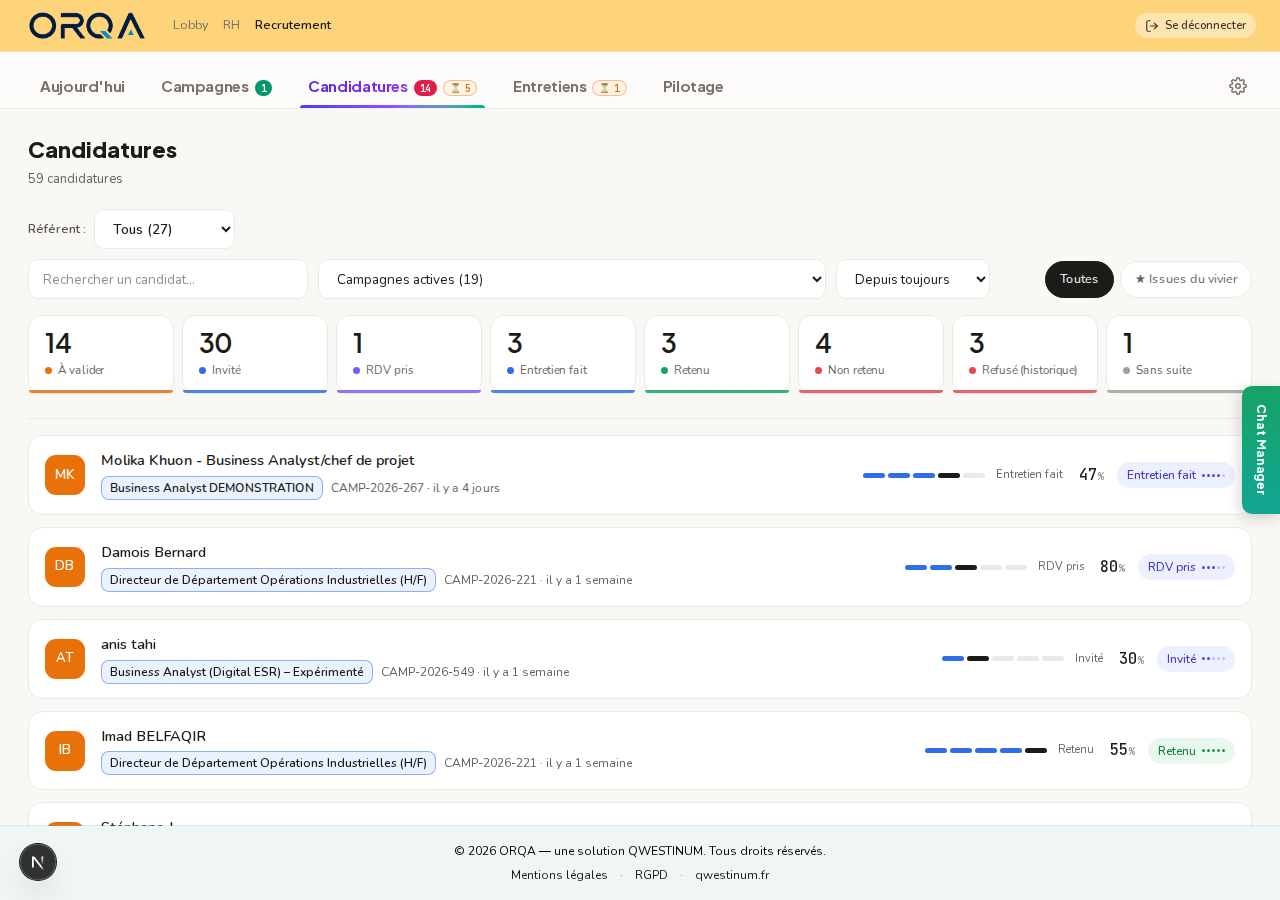
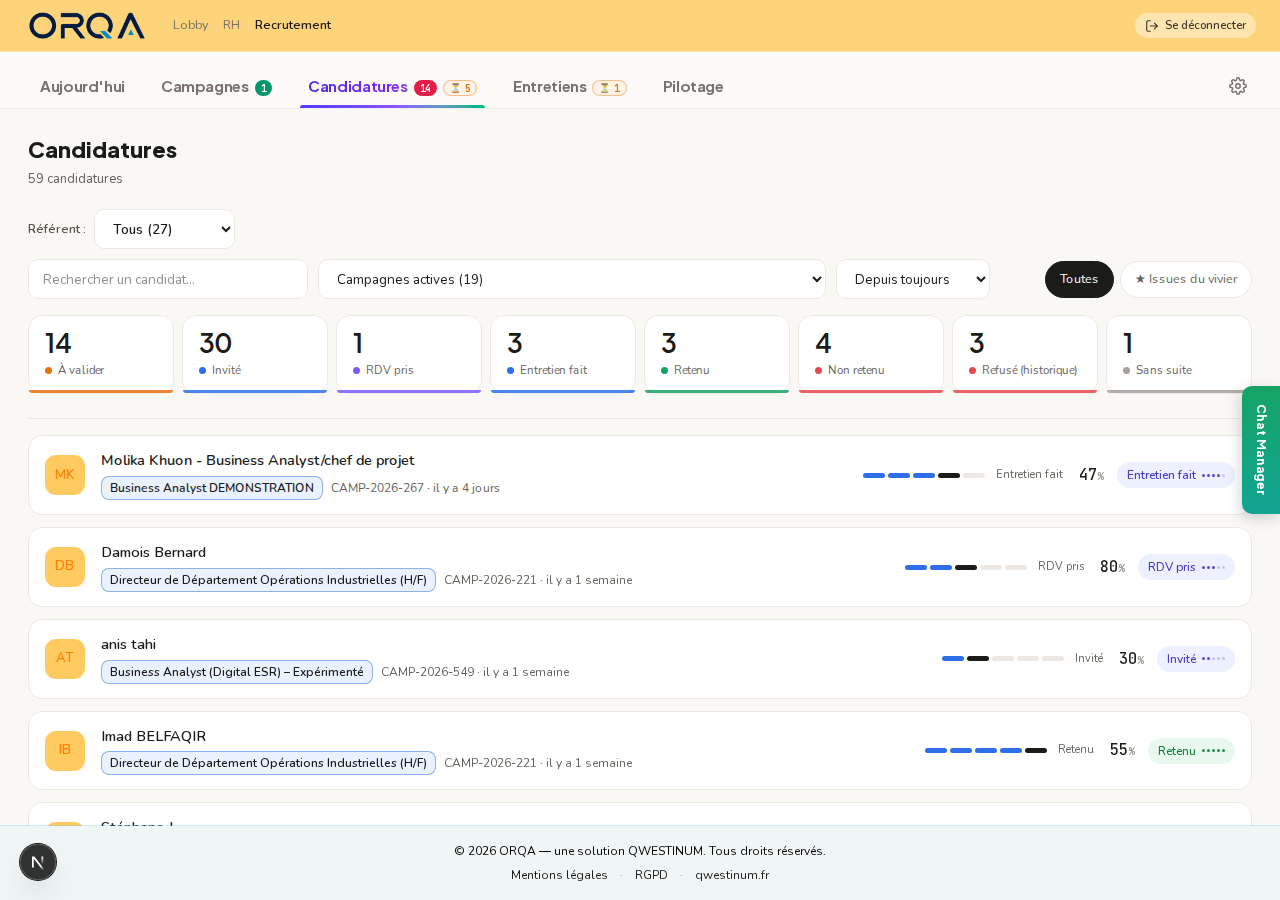
feat(ux): la pastille des personnes passe en ambre #ffcb60, initiales #ff7f00
Teintes choisies par le donneur d'ordre, appliquées partout où une
PERSONNE apparaît : Entretiens, Candidatures (ligne, panneau, fiche
pleine page) et Audit. Deux jetons, `--dash-candidat` et
`--dash-candidat-encre`, exposés par `PASTILLE`.

⚠ L'ENCRE NE PEUT PLUS ÊTRE BLANCHE. La pastille est CLAIRE : le blanc
qu'elle portait jusqu'ici deviendrait illisible. `text-white` est donc
retiré des cinq pavés et remplacé par le jeton d'encre — y compris dans
`SKIN.avatar`, la classe partagée.

⚠ MESURE, ET ELLE EST BASSE. `#ff7f00` sur `#ffcb60` donne **1,68:1**, et
la pastille se détache de **1,42:1** du fond sand — très en dessous des
3:1 d'un élément non textuel. Ce n'est tenable QUE parce que les
initiales sont REDONDANTES : le nom complet est à côté, en contraste AA,
et aucune information ne dépend de leur lecture. C'est écrit dans le
socle, dans la maquette et dans CLAUDE.md plutôt que laissé à découvrir,
avec l'alternative chiffrée : `#9a3412` donnerait 4,86:1 sur la même
pastille.

⚠ Pour la TROISIÈME fois de la journée, une capture a montré l'ancienne
couleur — le PNG est tiré avant que Next ait fini de reconstruire
`globals.css`. Ce sont les styles CALCULÉS qui tranchent, et ils donnent
`rgb(255, 203, 96)` / `rgb(255, 127, 0)`. Réflexe à garder : toucher au
CSS, attendre un rendu correct, PUIS capturer.

2963 tests verts · 39 tests de clic verts · typecheck propre.

diff --git a/src/components/ui/tokens.ts b/src/components/ui/tokens.ts
@@ -153,15 +153,21 @@ export const ETAPE = {
  * où il ne signifiait rien de tel, pendant qu'il servait ailleurs à marquer
  * les candidats retenus.
  *
- * ⚠ MESURE. Les initiales en blanc sur `--dash-orange` donnent **3,09:1** —
- * au-delà des 3:1 d'un élément non textuel, SOUS les 4,5:1 d'un texte. C'est
- * tenable parce que les initiales sont REDONDANTES (le nom complet est à
- * côté, en contraste AA) et c'est la teinte demandée. Si on veut le plein AA
- * sans changer de famille : `--dash-orange-text` monte à 5,02:1.
+ * ⚠ MESURE, et elle est basse. L'encre `#ff7f00` sur la pastille `#ffcb60`
+ * donne **1,68:1**, et la pastille se détache de **1,42:1** du fond sand —
+ * très en dessous des 3:1 d'un élément non textuel.
+ *
+ * Ce n'est tenable QUE parce que les initiales sont REDONDANTES : le nom
+ * complet est à côté, en contraste AA, et aucune information ne dépend de
+ * leur lecture. Ce sont les teintes demandées, et l'arbitrage appartient au
+ * donneur d'ordre. Dans la même famille, si le plein AA était visé :
+ * `#9a3412` donnerait 4,86:1 sur la même pastille.
  */
 export const PASTILLE = {
   /** Le pavé d'initiales d'une PERSONNE. Une seule couleur, sans exception. */
-  candidat: 'var(--dash-orange)',
+  candidat: 'var(--dash-candidat)',
+  /** L'encre des initiales. Jamais blanche : la pastille est claire. */
+  candidatEncre: 'var(--dash-candidat-encre)',
   /** Le fond de l'icône d'une CAMPAGNE active. */
   campagne: 'var(--dash-sky)',
 } as const;

diff --git a/src/app/globals.css b/src/app/globals.css
@@ -266,6 +266,14 @@
      élément non textuel). Et la pastille ne se détache que de 1,19:1 du fond
      sand : elle porte donc un filet, sinon elle flotterait sans contour. */
   --dash-sky: #d7e6ff;
+  /* La pastille des PERSONNES et son encre, posées le 21/09/2026.
+     ⚠ Mesuré : l'encre donne 1,68:1 sur la pastille, et la pastille 1,42:1
+     sur le fond sand. C'est TRÈS en dessous des 3:1 d'un élément non textuel.
+     Tenable seulement parce que les initiales sont REDONDANTES — le nom
+     complet est à côté, en contraste AA — et parce que c'est la teinte
+     demandée. Dans la même famille : #9a3412 donnerait 4,86:1. */
+  --dash-candidat: #ffcb60;
+  --dash-candidat-encre: #ff7f00;
 
   /* ── TEINTES DE TEXTE DES ÉTAPES ────────────────────────────────────────
      ⚠ Les couleurs de marque ci-dessus sont des REPÈRES (pastilles, points,

diff --git a/src/components/reporting/CandidateSelectionPanel.tsx b/src/components/reporting/CandidateSelectionPanel.tsx
@@ -198,8 +198,8 @@ export function CandidateSelectionPanel({
                   className={`${AUDIT_GRID} w-full rounded-lg border border-stone-200 bg-white px-4 py-3 text-left hover:border-amber-300 hover:bg-amber-50/40`}
                 >
                   <span
-                    className="grid h-10 w-10 place-items-center rounded-[11px] font-data text-[13px] font-semibold tracking-wide text-white"
-                    style={{ background: PASTILLE.candidat }}
+                    className="grid h-10 w-10 place-items-center rounded-[11px] font-data text-[13px] font-semibold tracking-wide"
+                    style={{ background: PASTILLE.candidat, color: PASTILLE.candidatEncre }}
                   >
                     {initials(it.candidateName)}
                   </span>

diff --git a/src/components/candidatures/CandidaturePanel.tsx b/src/components/candidatures/CandidaturePanel.tsx
@@ -113,7 +113,7 @@ export function CandidaturePanel({
     >
       <header className="flex items-start justify-between gap-3 px-6 py-5">
         <div className="flex min-w-0 items-start gap-3.5">
-          <span className="grid h-[52px] w-[52px] shrink-0 place-items-center rounded-[14px] font-body text-[17px] font-semibold text-white" style={{ background: PASTILLE.candidat }}>
+          <span className="grid h-[52px] w-[52px] shrink-0 place-items-center rounded-[14px] font-body text-[17px] font-semibold" style={{ background: PASTILLE.candidat, color: PASTILLE.candidatEncre }}>
             {initials(item.candidateName)}
           </span>
           <div className="min-w-0">

diff --git a/src/components/candidatures/CandidatureFullPage.tsx b/src/components/candidatures/CandidatureFullPage.tsx
@@ -198,7 +198,7 @@ function Body({
       {/* Identité + score */}
       <div className="flex flex-wrap items-start justify-between gap-4">
         <div className="flex items-start gap-4">
-          <span className="grid h-[52px] w-[52px] shrink-0 place-items-center rounded-[14px] font-body text-[17px] font-semibold text-white" style={{ background: PASTILLE.candidat }}>
+          <span className="grid h-[52px] w-[52px] shrink-0 place-items-center rounded-[14px] font-body text-[17px] font-semibold" style={{ background: PASTILLE.candidat, color: PASTILLE.candidatEncre }}>
             {initials(candidate.candidateName)}
           </span>
           <div>

diff --git a/src/components/candidatures/CandidatureRow.tsx b/src/components/candidatures/CandidatureRow.tsx
@@ -40,8 +40,8 @@ export function CandidatureRow({
         selected ? 'border-dash-text' : 'border-dash-border'
       }`}
     >
-      <span className="grid h-10 w-10 place-items-center rounded-[11px] font-body text-[13px] font-semibold tracking-wide text-white"
-        style={{ background: PASTILLE.candidat }}>
+      <span className="grid h-10 w-10 place-items-center rounded-[11px] font-body text-[13px] font-semibold tracking-wide"
+        style={{ background: PASTILLE.candidat, color: PASTILLE.candidatEncre }}>
         {initials(item.candidateName)}
       </span>
 

diff --git a/src/components/ui/list-skin.ts b/src/components/ui/list-skin.ts
@@ -30,7 +30,9 @@ export const SKIN = {
   /** Ligne secondaire, en gris. */
   meta: 'font-body text-[12px]',
   /** Pavé d'initiales. */
-  avatar: 'rounded-[11px] font-data text-[13px] font-semibold tracking-wide text-white',
+  /** ⚠ Sans couleur de texte : l'encre vient de `PASTILLE.candidatEncre`.
+      La pastille est CLAIRE — du blanc dessus serait illisible. */
+  avatar: 'rounded-[11px] font-data text-[13px] font-semibold tracking-wide',
   /** Puce d'intitulé. */
   puce: 'rounded-md border font-body text-[12px] font-semibold',
 } as const;

diff --git a/src/components/ui/ListRow.tsx b/src/components/ui/ListRow.tsx
@@ -66,7 +66,10 @@ export function ListRow({
         initials ? (
           <span
             className={`grid h-10 w-10 place-items-center ${s.avatar}`}
-            style={{ background: avatarColor ?? PASTILLE.candidat }}
+            style={{
+            background: avatarColor ?? PASTILLE.candidat,
+            color: PASTILLE.candidatEncre,
+          }}
           >
             {initials}
           </span>

diff --git a/CLAUDE.md b/CLAUDE.md
@@ -113,7 +113,7 @@ Specs de référence par domaine : `docs/specs/` (`candidatures-sans-suite.md`, 
 - **Fonctions Vercel en `cdg1` — obligation DPA, ne jamais laisser Vercel choisir la région.** La région par défaut de Vercel est `iad1` (Washington) : les fonctions traitent CV, noms et adresses, les y laisser tourner est un traitement hors UE, et chaque aller-retour vers la base (Paris) traverse l'Atlantique. Constat du 14/09/2026 (`x-vercel-id: cdg1::iad1`, cause n°1 de la latence) ; vérification : le 2ᵉ segment de `x-vercel-id` doit être `cdg1`, sur dev, démo ET prod. Détail : `docs/ops/diagnostic-latence-2026-09-14.md`.
 - **Une action d'interface n'est livrée que si un test l'a CLIQUÉE (21/09/2026).** Les tests de logique pure ne suffisent plus pour une **porte, un bouton ou un lien** : ils lisent une valeur, ils ne voient pas ce que le navigateur en fait. Incident fondateur : deux livraisons ont annoncé les portes « Chercher dans le vivier » et « Diffuser l'annonce » branchées alors qu'elles ne l'étaient pas — le lot 3 vérifiait que la CHAÎNE du lien contenait `ouvrir=vivier`, le lot 4 que les MOTS `openSection`/`initialSection` apparaissaient dans les fichiers. Les deux étaient vrais ; le produit, non (`CampaignEditSheet` acceptait `initialSection` et ne le transmettait pas ; `CampaignsWorkspace` décidait d'ouvrir dans un initialiseur de `useState`, qui ne s'exécute qu'au MONTAGE — or ces liens mènent à la page déjà affichée). Vitest tourne en `environment: 'node'` : **rien dans le dépôt ne pouvait cliquer**. D'où la suite **`npm run test:e2e`** (`tests/e2e/`, playwright-core, vraies routes, vrai formulaire de connexion, compte d'essai créé puis effacé), qui exige l'INVERSE de la régression : **l'application DOIT TOURNER** (`npm run dev`) — les deux suites ne se lancent donc jamais ensemble. Un test de clic se prouve dans les deux sens : rouge sur le défaut rétabli, vert sur le correctif. Les gardes structurelles gardent leur emploi — « ceci ne doit PAS exister » — elles ne disent rien de « ceci marche ».
 - **Deux composants d'interface, et pas un troisième (21/09/2026).** Un écran ne crée JAMAIS son composant de navigation ni son compteur : il prend **les puces à point coloré** (`src/components/ui/DotTabs.tsx`) pour basculer de vue, ou **les cartes-compteurs soulignées** (`src/components/ui/CounterRibbon.tsx`) pour montrer des volumes. Le produit en avait quatre formes pour le même geste — puces de Campagnes, barre segmentée de Pilotage, barre soulignée du Vivier et des Validations, onglets d'Entretiens — et on ne reconnaissait plus, d'un écran à l'autre, la chose qui fait changer de vue. **Une carte-compteur n'a que deux rangs** (un chiffre, un libellé) : ce qui mérite un sous-texte mérite sa PROPRE carte. La couleur vient des composants existants (entonnoir `SegmentedCounts`, pastille d'état, soulignement), jamais d'un aplat local ; aucune ombre portée sur un élément du flux. Règle complète et tableau : `docs/ux/maquette-structure-v2-2026-09-20.md` §I. Garde structurelle sondée : `src/components/ui/__tests__/interface-sobre.test.ts`.
-- **Une couleur par NATURE d'objet (21/09/2026).** La couleur d'un pavé d'initiales ou d'une icône de ligne ne code ni l'étape, ni l'urgence, ni le score — tout cela est déjà écrit sur la ligne. Elle dit la NATURE de l'objet : une **personne** est **orange** (`PASTILLE.candidat`, sans exception — Entretiens, Candidatures, Audit), une **campagne** est **bleu ciel** avec son éclair (`CampaignIcon`, partagé — Campagnes, Pilotage → Rapport de campagne). Avant : un candidat était orange en retard, turquoise sinon, violet en attente, marine sur Candidatures — quatre couleurs pour la même personne ; et l'icône de campagne était VERTE, alors que le vert sert ailleurs à marquer les retenus. ⚠ **Portée** : sur la carte d'une campagne, « suspendue » (jaune) et « brouillon » (gris) gardent leurs teintes — elles distinguent trois cartes dans une même liste. ⚠ **Mesure** : initiales blanches sur `--dash-orange` = **3,09:1** (au-delà des 3:1 d'un non-textuel, sous les 4,5:1 d'un texte) — tenable parce que les initiales sont REDONDANTES (le nom complet est à côté, en AA) ; `--dash-orange-text` monterait à 5,02:1. Garde sondée : `socle-jetons.test.ts` refuse tout `avatarColor` autre et tout fond posé à la main derrière des initiales.
+- **Une couleur par NATURE d'objet (21/09/2026).** La couleur d'un pavé d'initiales ou d'une icône de ligne ne code ni l'étape, ni l'urgence, ni le score — tout cela est déjà écrit sur la ligne. Elle dit la NATURE de l'objet : une **personne** est une pastille ambre `#ffcb60` à initiales `#ff7f00` (`PASTILLE.candidat` / `PASTILLE.candidatEncre`, sans exception — Entretiens, Candidatures, Audit), une **campagne** est **bleu ciel** avec son éclair (`CampaignIcon`, partagé — Campagnes, Pilotage → Rapport de campagne). Avant : un candidat était orange en retard, turquoise sinon, violet en attente, marine sur Candidatures — quatre couleurs pour la même personne ; et l'icône de campagne était VERTE, alors que le vert sert ailleurs à marquer les retenus. ⚠ **Portée** : sur la carte d'une campagne, « suspendue » (jaune) et « brouillon » (gris) gardent leurs teintes — elles distinguent trois cartes dans une même liste. ⚠ **Mesure, BASSE et assumée** : `#ff7f00` sur `#ffcb60` = **1,68:1**, pastille sur sand = **1,42:1** — très en dessous des 3:1 d'un non-textuel. Tenable UNIQUEMENT parce que les initiales sont REDONDANTES (le nom complet est à côté, en AA) et parce que ce sont les teintes choisies par le DO ; `#9a3412` donnerait 4,86:1 sur la même pastille. Côté campagne, le ciel `#d7e6ff` impose la même prudence : glyphe en `--dash-blue` (3,66:1, blanc = 1,26:1 donc exclu) et un filet, la pastille ne se détachant que de 1,19:1. Garde sondée : `socle-jetons.test.ts` refuse tout `avatarColor` autre et tout fond posé à la main derrière des initiales.
 - **Un socle de jetons, et aucune couleur en dur (21/09/2026).** `src/components/ui/tokens.ts` NOMME ce qui existait : trois niveaux typographiques (`font-display` · `font-body` · `font-data`, cette dernière réservée aux chiffres et aux références `CAMP-XXXX`), une échelle d'espacement en multiples de 4, les rôles de couleur, les trois profondeurs et leurs bornes de contraste. La peau divergente de **Candidatures** (Fraunces + Inter, marine `#0a1f3f`, bleu-gris `#64748b`) est **retirée** — deux polices chargées sur toutes les pages pour un seul écran ; sa STRUCTURE, elle, ne bouge pas, c'est le modèle des autres. ⚠ **Deux familles de couleur** : les couleurs de marque (`--dash-green`…) sont des REPÈRES (2,83 à 3,44:1 — assez pour du non-textuel, SOUS AA pour du texte) ; le texte des pastilles d'état prend `--dash-*-text` (4,56 à 6,95:1, mesurés). Gardes sondées : `socle-jetons.test.ts` (aucun `#hex`, aucune `fontFamily`, la palette retirée ne revient pas) et `stage-ui.test.ts`, qui **résout les jetons dans `globals.css`** avant de mesurer — une teinte changée en CSS fait rougir la suite sans qu'on touche au code.
 - **TypeScript strict, jamais de `any`.** Si un type est complexe, on le définit dans `src/types/`.
 - **Chaque agent implémente le contrat `AgentContract`** défini dans `src/types/agent.ts`. La prise d'acte des actions UI fait partie du contrat du Manager (voir spec §4.1).

diff --git a/docs/ux/maquette-structure-v2-2026-09-20.md b/docs/ux/maquette-structure-v2-2026-09-20.md
@@ -675,7 +675,7 @@ l'urgence, ni le score : tout cela est déjà écrit sur la ligne, en toutes let
 
 | Objet | Pastille | Écrans |
 |---|---|---|
-| Une **personne** | **orange** (`--dash-orange`), sans exception | Entretiens · Candidatures · Audit |
+| Une **personne** | pastille **`#ffcb60`**, initiales **`#ff7f00`**, sans exception | Entretiens · Candidatures · Audit |
 | Une **campagne** | **bleu ciel** (`--dash-sky`) et son éclair | Campagnes · Pilotage → Rapport de campagne |
 
 **Pourquoi.** Un candidat était orange sur *Entretiens* quand il était en retard, turquoise
@@ -689,12 +689,17 @@ qu'il servait ailleurs à marquer les candidats retenus.
 « brouillon » (gris) gardent leurs teintes : elles distinguent trois cartes côte à côte
 dans une même liste, ce qui est un autre problème. Seule l'icône **active** change.
 
-⚠ **Mesure.** Les initiales en blanc sur `--dash-orange` donnent **3,09:1** — au-delà des
-3:1 d'un élément non textuel, **sous les 4,5:1 d'un texte**. C'est tenable parce que les
-initiales sont **redondantes** (le nom complet est à côté, en contraste AA). Pour le plein
-AA sans changer de famille : `--dash-orange-text`, à 5,02:1. Le bleu ciel donne **4,10:1**
-avec son glyphe blanc, qui est décoratif (`aria-hidden`) — l'issue de la campagne est
-écrite dans la pastille à droite.
+⚠ **Mesure, et elle est basse.** Les initiales `#ff7f00` sur la pastille `#ffcb60`
+donnent **1,68:1**, et la pastille se détache de **1,42:1** du fond sand — très en dessous
+des 3:1 d'un élément non textuel. Ce n'est tenable QUE parce que les initiales sont
+**redondantes** : le nom complet est à côté, en contraste AA, et aucune information ne
+dépend de leur lecture. Ce sont les teintes choisies par le donneur d'ordre, et
+l'arbitrage lui appartient ; dans la même famille, `#9a3412` donnerait 4,86:1 sur la même
+pastille.
+
+Côté campagne, le ciel `#d7e6ff` est lui aussi **pâle** : le glyphe ne peut pas être blanc
+(1,26:1) et prend `--dash-blue` (**3,66:1**, au-delà des 3:1 d'un élément non textuel) ; la
+pastille porte un filet, car elle ne se détache que de 1,19:1 du fond.
 
 **Garde** : `socle-jetons.test.ts` — un `avatarColor` qui n'est pas `PASTILLE.candidat`,
 ou un fond posé à la main derrière des initiales, fait rougir la suite. Sondée.
